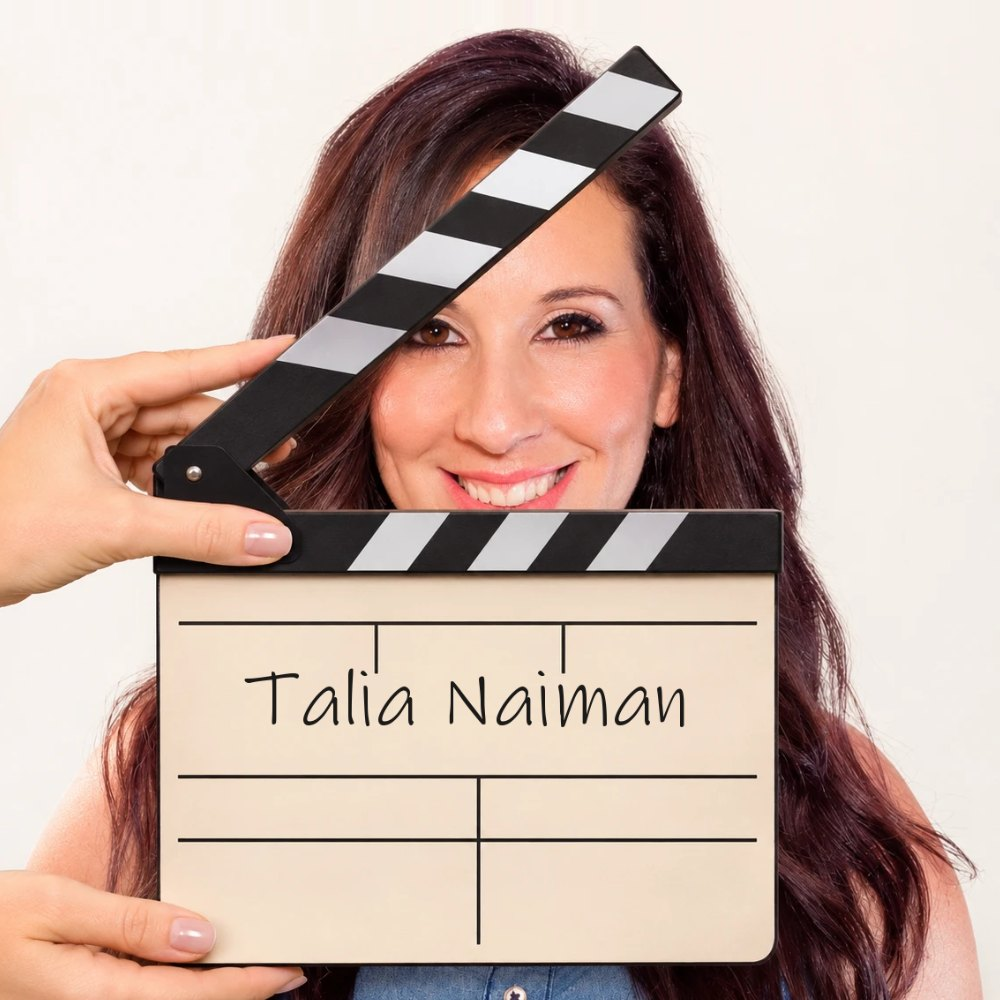
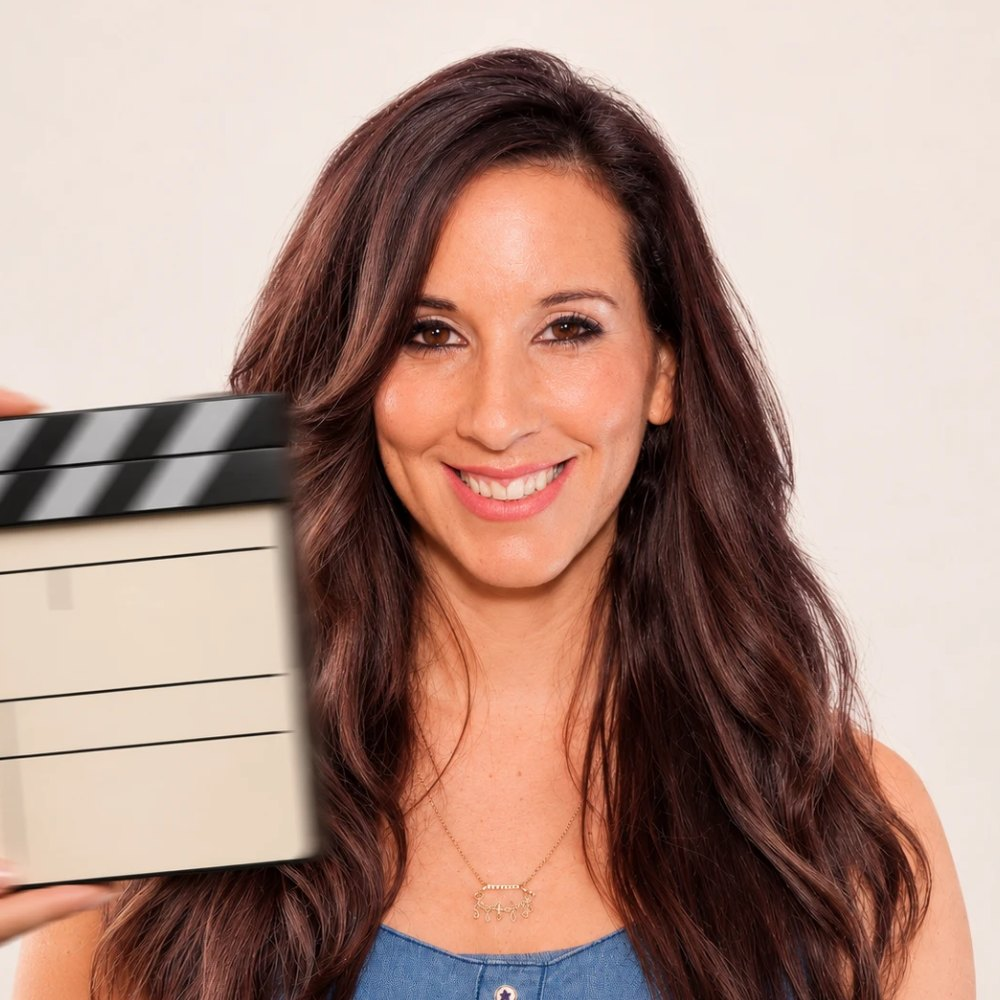
About: use the sliding-clapper frame in the stop-motion sequence

diff --git a/index.html b/index.html
@@ -637,7 +637,7 @@ addEventListener("scroll",()=>{
   const still=()=>{ ["--jx","--jy","--jr","--js","--jb"].forEach(v=>el.style.removeProperty(v)); };
   if(matchMedia("(prefers-reduced-motion: reduce)").matches){ show(fr.length-1); return; }
   /* shot "on twos": one tick = one drawn frame (~9 fps). Each entry is the photo shown for that tick. */
-  const TICKS=[0,0,0,0,0,0,0,0,0, 1,1, 2,2,2,2,2,2, 3,3,3,3,3,3,3, 4];
+  const TICKS=[0,0,0,0,0,0,0,0,0, 1,1, 2,2,2,2,2,2, 3,3,3,3,3, 4];
   const TICK=115; let timer=null, seed=7;
   const rnd=()=>{ seed=(seed*9301+49297)%233280; return seed/233280-.5; };   // repeatable "hand" wobble
   const wobble=(i,settle)=>{
